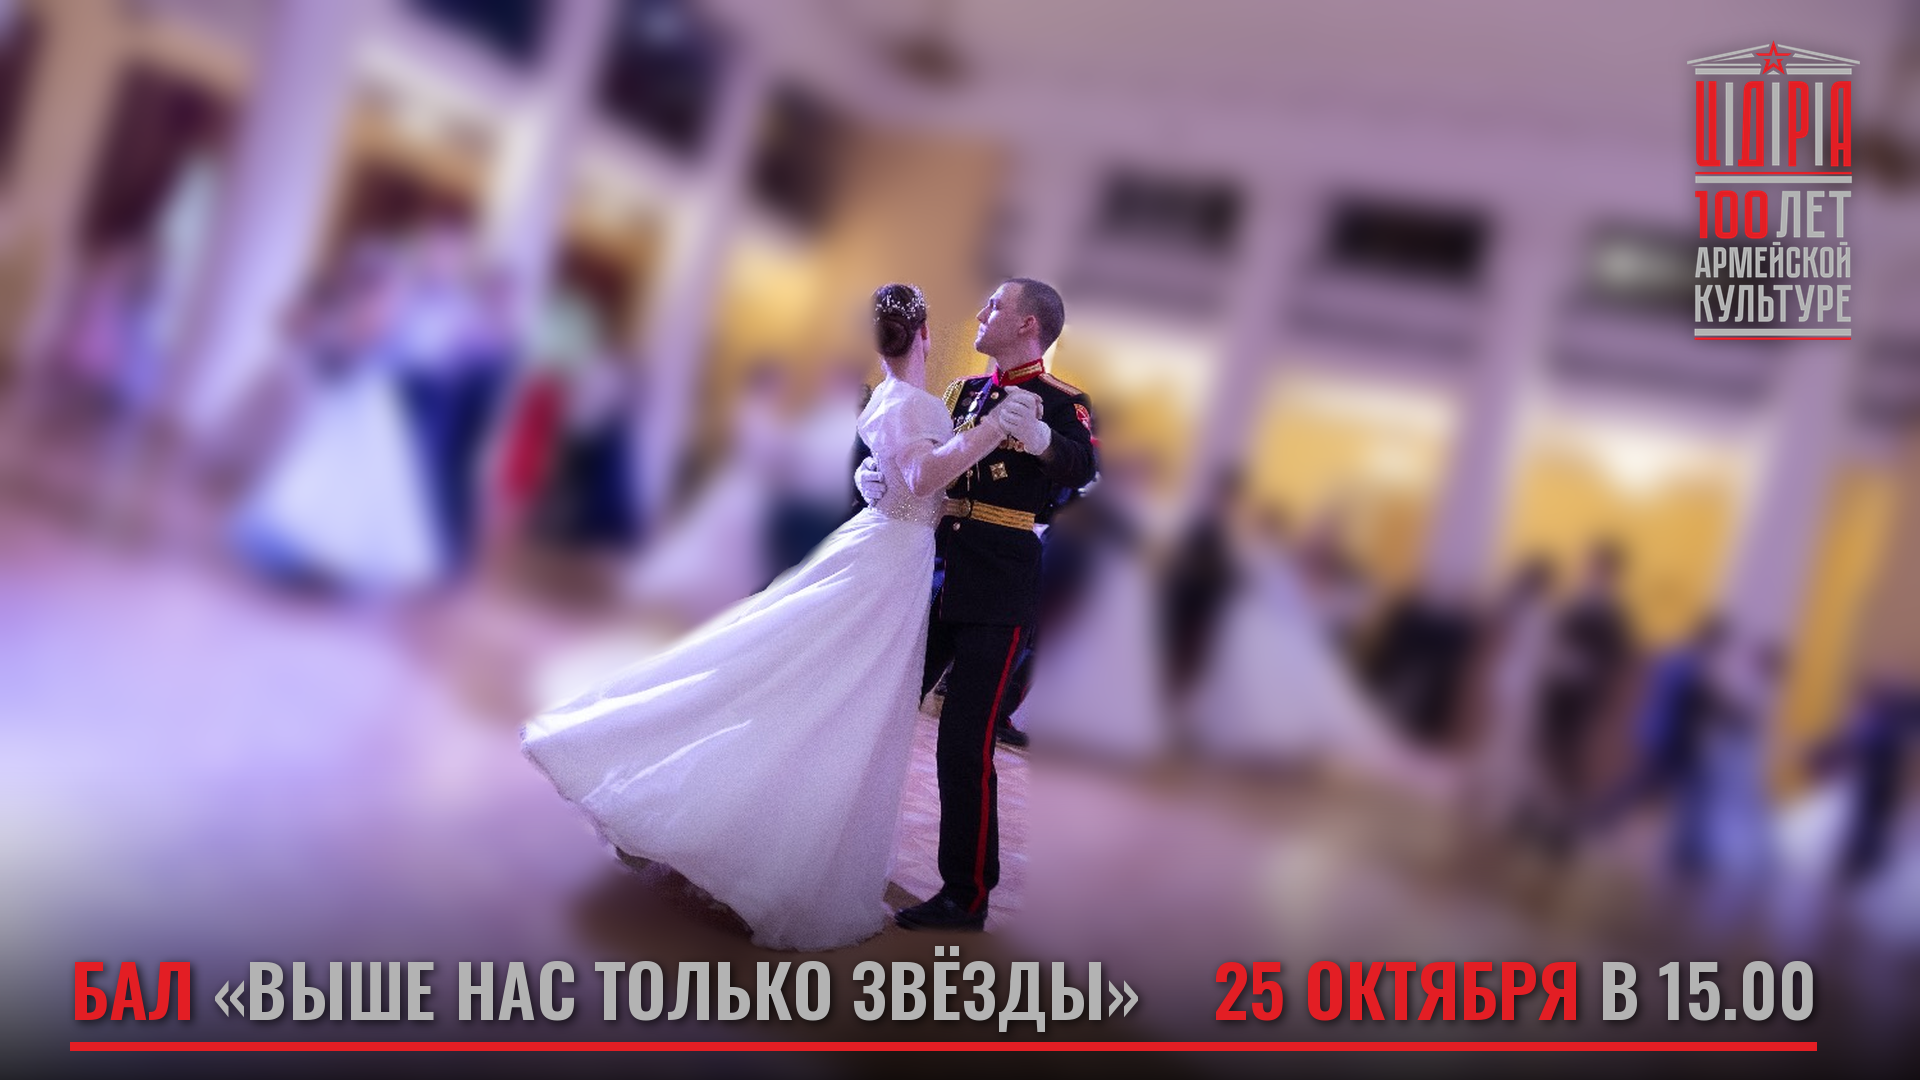
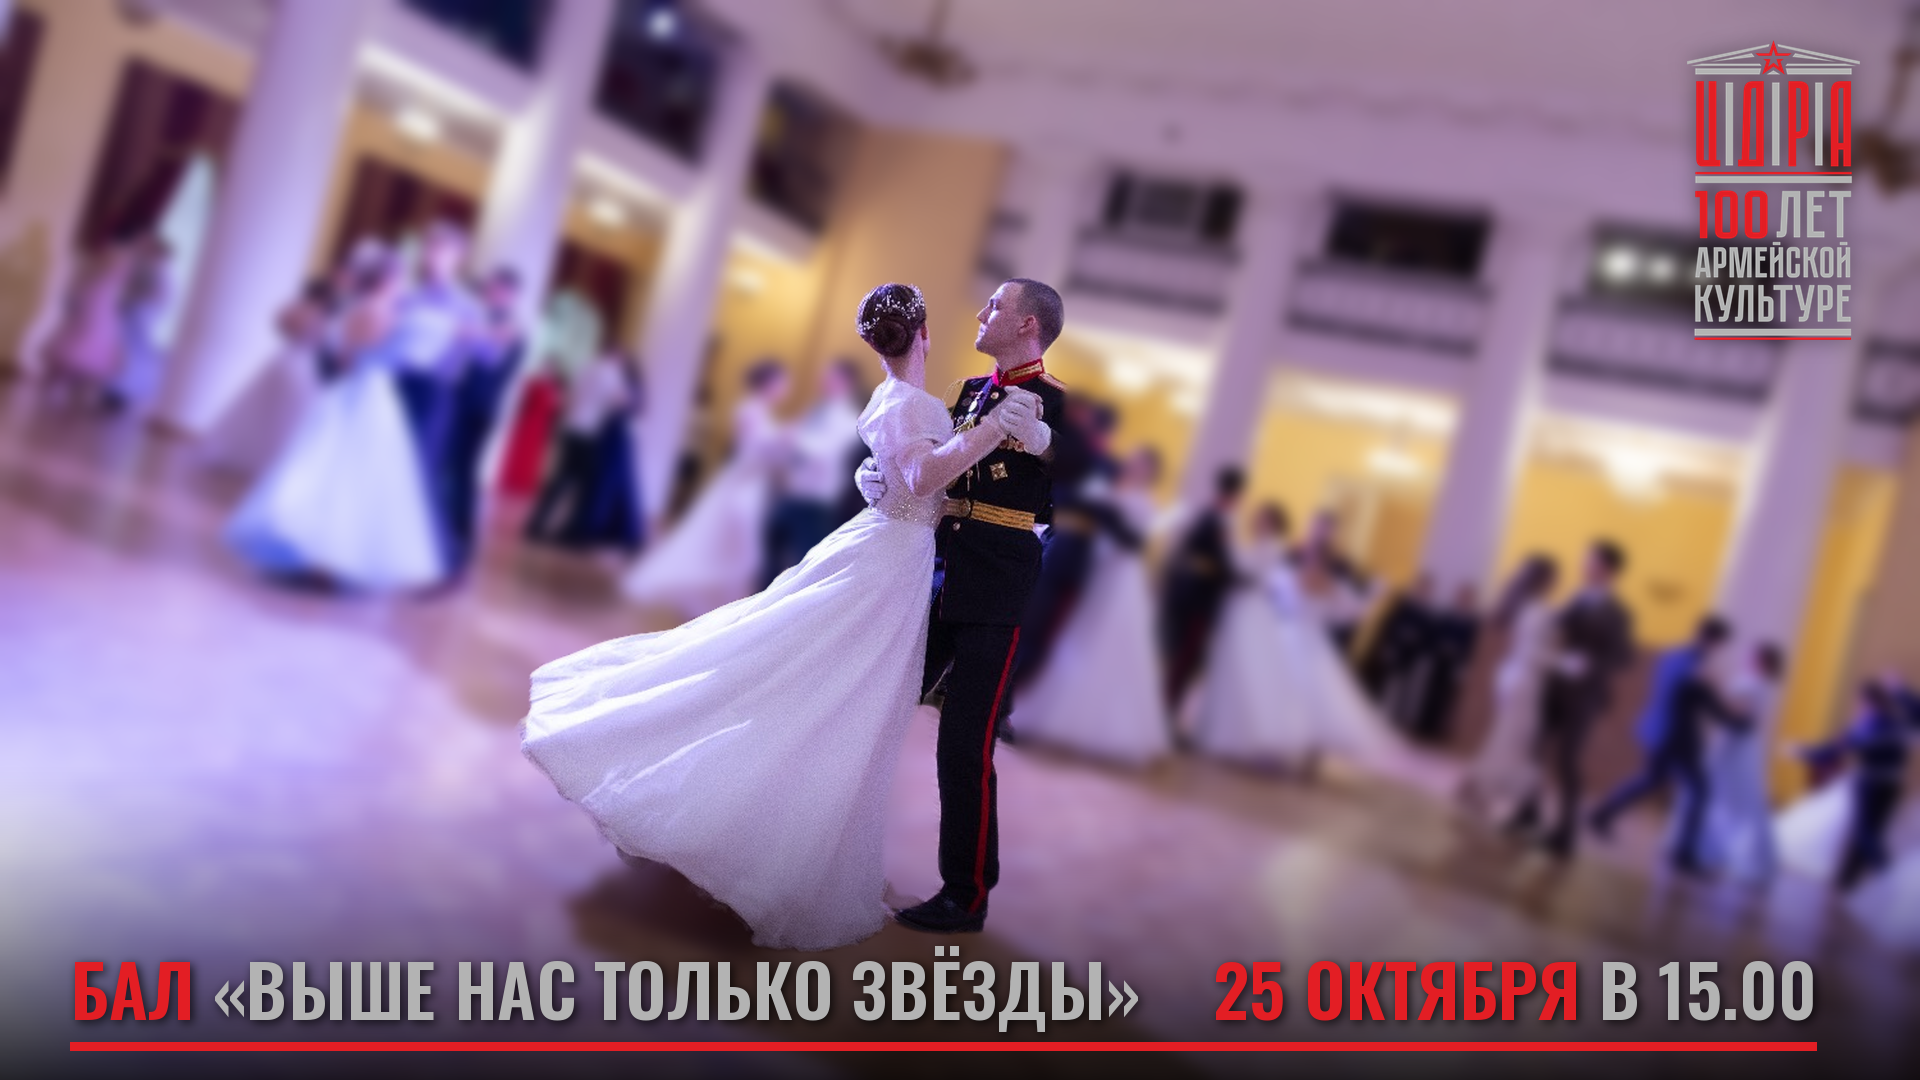
Афиша: маска пары нейросетью, лёгкое размытие по всему фону
Claude-Session: https://claude.ai/code/session_01T1cTPKS4tv71B7wCkjdvMn

diff --git a/afisha/make_poster.py b/afisha/make_poster.py
@@ -16,15 +16,36 @@ GRAY = (179, 179, 179)
 SCALE = W / 1500          # фото 1500x1000 -> 1920x1280
 OFFSET_Y = 190            # обрезаем сверху, чтобы внизу осталось место под текст
 
-# контур пары в координатах афиши 1920x1080
-COUPLE = [
-    (875, 290), (900, 278), (927, 288), (932, 320), (950, 322), (975, 318), (982, 298),
-    (1002, 282), (1028, 275), (1052, 284), (1067, 310), (1062, 346), (1046, 362), (1080,
-    378), (1094, 420), (1098, 475), (1078, 498), (1052, 515), (1040, 560), (1036, 630),
-    (1028, 690), (1026, 780), (1026, 860), (1020, 910), (988, 932), (920, 928), (860,
-    948), (780, 954), (680, 914), (618, 864), (558, 794), (522, 754), (518, 728), (560,
-    702), (650, 658), (740, 603), (810, 558), (852, 510), (852, 465), (860, 410), (866,
-    378), (880, 358)]
+BLUR = 7                  # радиус размытия фона: лёгкое, но заметное
+
+# пару вырезает нейросеть rembg (isnet-general-use) на кропе вокруг неё;
+# танцоров за спиной кавалера отрезаем по линии его спины (координаты кропа)
+CROP = (370, 330, 910, 920)
+CUT_RIGHT = [(455, 0), (462, 110), (458, 150), (452, 200), (452, 240), (440, 270),
+             (428, 300), (420, 360), (420, 560), (432, 590)]
+# просвет пола между платьем и ногой кавалера — тоже фон
+GAP = [(349, 364), (356, 380), (359, 420), (362, 500), (357, 518), (330, 520),
+       (320, 500), (321, 450), (333, 405), (344, 378)]
+MASK_FILE = HERE / "couple_mask.png"
+
+
+def couple_mask():
+    """Маска пары на исходном фото 1500x1000 (кэшируется в couple_mask.png)."""
+    if MASK_FILE.exists():
+        return Image.open(MASK_FILE).convert("L")
+    from rembg import remove, new_session
+    src = Image.open(HERE / "photo.jpg").convert("RGB")
+    seg = remove(src.crop(CROP), session=new_session("isnet-general-use"), only_mask=True)
+    w, h = seg.size
+    keep = Image.new("L", (w, h), 0)
+    ImageDraw.Draw(keep).polygon([(0, 0)] + CUT_RIGHT + [(0, h)], fill=255)
+    ImageDraw.Draw(keep).polygon(GAP, fill=0)
+    seg = Image.fromarray(np.minimum(np.asarray(seg), np.asarray(
+        keep.filter(ImageFilter.GaussianBlur(2)))))
+    full = Image.new("L", src.size, 0)
+    full.paste(seg, CROP[:2])
+    full.save(MASK_FILE)
+    return full
 
 
 def photo_layer():
@@ -32,11 +53,10 @@ def photo_layer():
     big = src.resize((W, round(1000 * SCALE)), Image.LANCZOS)
     sharp = big.crop((0, OFFSET_Y, W, OFFSET_Y + H))
 
-    hard = Image.new("L", (W, H), 0)
-    ImageDraw.Draw(hard).polygon(COUPLE, fill=255)
+    hard = couple_mask().resize((W, round(1000 * SCALE)), Image.LANCZOS)
+    hard = hard.crop((0, OFFSET_Y, W, OFFSET_Y + H))
 
-    # размываем фон без пары, иначе вокруг неё светлый ореол от белого платья
-    keep = 1 - np.asarray(hard.filter(ImageFilter.MaxFilter(15)), np.float32) / 255
+    keep = 1 - np.asarray(hard.point(lambda v: 255 if v > 20 else 0).filter(ImageFilter.MaxFilter(9)), np.float32) / 255
     rgb = np.asarray(sharp, np.float32)
     def blur(a, r):
         # три прохода бокс-фильтра ~ гаусс; PIL не размывает float-картинки
@@ -48,11 +68,11 @@ def photo_layer():
                 a = (np.take(c, range(2 * r + 1, c.shape[ax]), axis=ax)
                      - np.take(c, range(0, c.shape[ax] - 2 * r - 1), axis=ax)) / (2 * r + 1)
         return a
-    num = np.dstack([blur(rgb[..., c] * keep, 14) for c in range(3)])
-    den = blur(keep, 14)[..., None]
+    num = np.dstack([blur(rgb[..., c] * keep, BLUR) for c in range(3)])
+    den = blur(keep, BLUR)[..., None]
     blurred = Image.fromarray(np.clip(num / np.maximum(den, 1e-3), 0, 255).astype(np.uint8))
 
-    mask = hard.filter(ImageFilter.GaussianBlur(4))
+    mask = hard.filter(ImageFilter.GaussianBlur(1.2))
     return Image.composite(sharp, blurred, mask)
 
 
